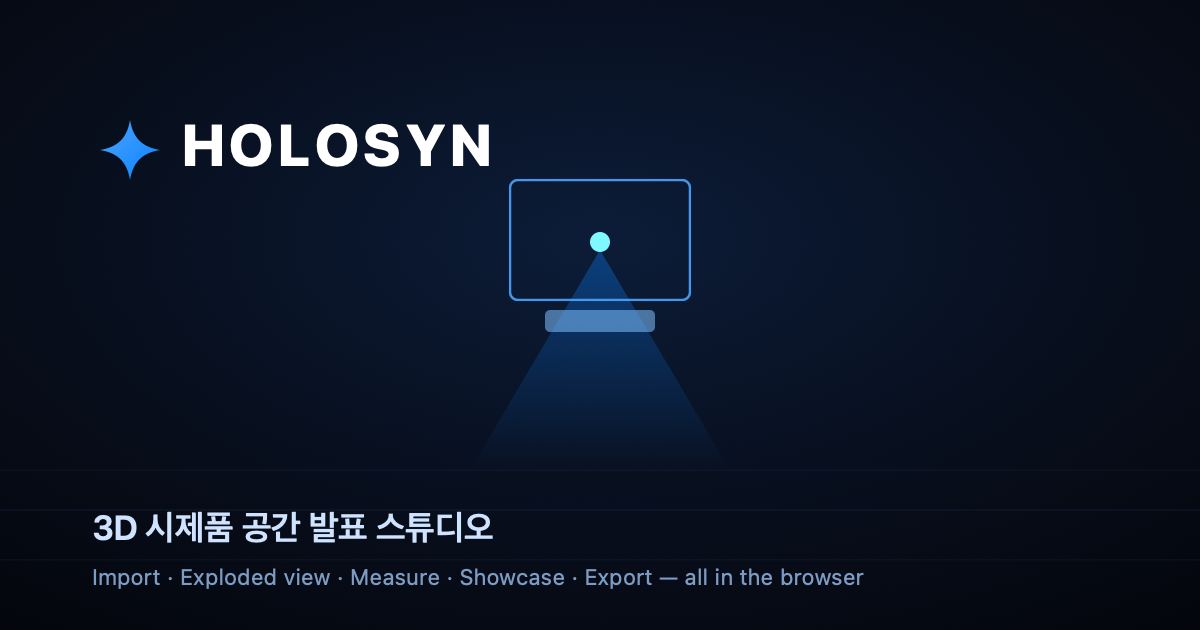
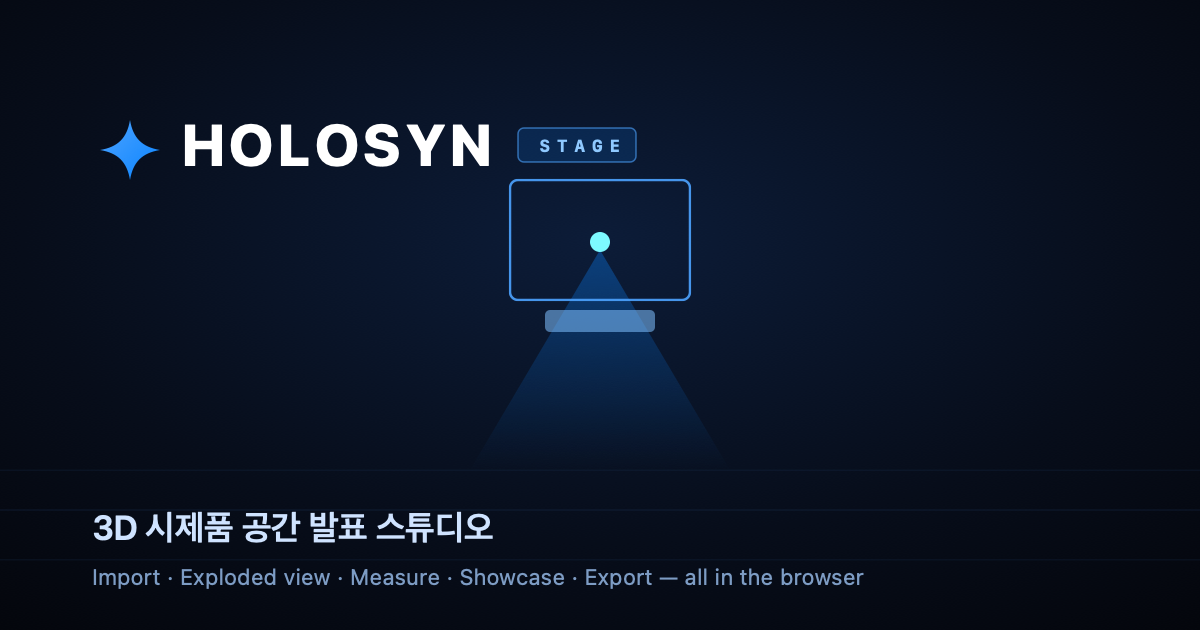
fix: make the shared link render a preview, and mark it STAGE
og:image and twitter:image were relative ("og-image.png"), which most
crawlers — KakaoTalk and Slack included — drop, showing no preview at
all. Sharing a link is the entire point of STAGE (QR → phone → viewer),
so a dead preview sits right on the main path. Both are absolute now,
and og:url was added alongside them.

smoke-check asserts both tags exist, are absolute, and that the file
they name is present. Verified by reverting one to a relative path: the
check fails with the offending value.

Also put the edition mark on the card itself: a STAGE chip beside the
wordmark in og-image.svg, matching the in-app .edition-tag, with
og-image.png re-rendered from it. The rest of the card is unchanged.

The favicon is deliberately untouched — at the 16px it actually renders,
"STAGE" would be a smudge, and the mark already has a home on the card.

Changed region(s): [[0.4317, 0.181, 0.555, 0.2714]]

diff --git a/index.html b/index.html
@@ -26,8 +26,10 @@
     <meta property="og:type" content="website">
     <meta property="og:title" content="HOLOSYN — 3D 시제품 공간 발표 스튜디오">
     <meta property="og:description" content="3D 시제품을 입체로 띄우고 분해도·치수 측정·발표 모드로 보여주는 브라우저 발표 스튜디오.">
-    <!-- og:image is relative; after deploy you may swap in the absolute URL for strict crawlers -->
-    <meta property="og:image" content="og-image.png">
+    <!-- Absolute: KakaoTalk, Slack and most crawlers drop relative og:image and
+         then render no preview at all — and a shared link is the whole point. -->
+    <meta property="og:url" content="https://tatao4503.github.io/holosyn-3d-studio/">
+    <meta property="og:image" content="https://tatao4503.github.io/holosyn-3d-studio/og-image.png">
     <meta property="og:image:width" content="1200">
     <meta property="og:image:height" content="630">
 
@@ -35,13 +37,13 @@
     <meta name="twitter:card" content="summary_large_image">
     <meta name="twitter:title" content="HOLOSYN — 3D 시제품 공간 발표 스튜디오">
     <meta name="twitter:description" content="3D 시제품을 입체로 띄우고 분해도·치수 측정·발표 모드로 보여주는 브라우저 발표 스튜디오.">
-    <meta name="twitter:image" content="og-image.png">
+    <meta name="twitter:image" content="https://tatao4503.github.io/holosyn-3d-studio/og-image.png">
 
     <!-- Bundled fonts and icons keep local exhibition mode offline-ready. -->
     <link rel="stylesheet" href="vendor/fonts/fonts.css">
     <script src="vendor/lucide/lucide.min.js"></script>
     <!-- Stylesheet -->
-    <link rel="stylesheet" href="index.css?v=20260824-stage">
+    <link rel="stylesheet" href="index.css?v=20260903-og">
 </head>
 <body class="theme-blue">
     <!-- Ambient Vignette Background -->
@@ -1931,9 +1933,9 @@
     <script src="vendor/qrcode/qrcode.js"></script>
 
     <!-- Main Script -->
-    <script src="app.js?v=20260824-stage"></script>
-    <script src="scripts/holosyn-timeline.js?v=20260824-stage"></script>
-    <script src="scripts/holosyn-pro-managers.js?v=20260824-stage"></script>
+    <script src="app.js?v=20260903-og"></script>
+    <script src="scripts/holosyn-timeline.js?v=20260903-og"></script>
+    <script src="scripts/holosyn-pro-managers.js?v=20260903-og"></script>
     <script>
         if (window.lucide) lucide.createIcons();
     </script>
